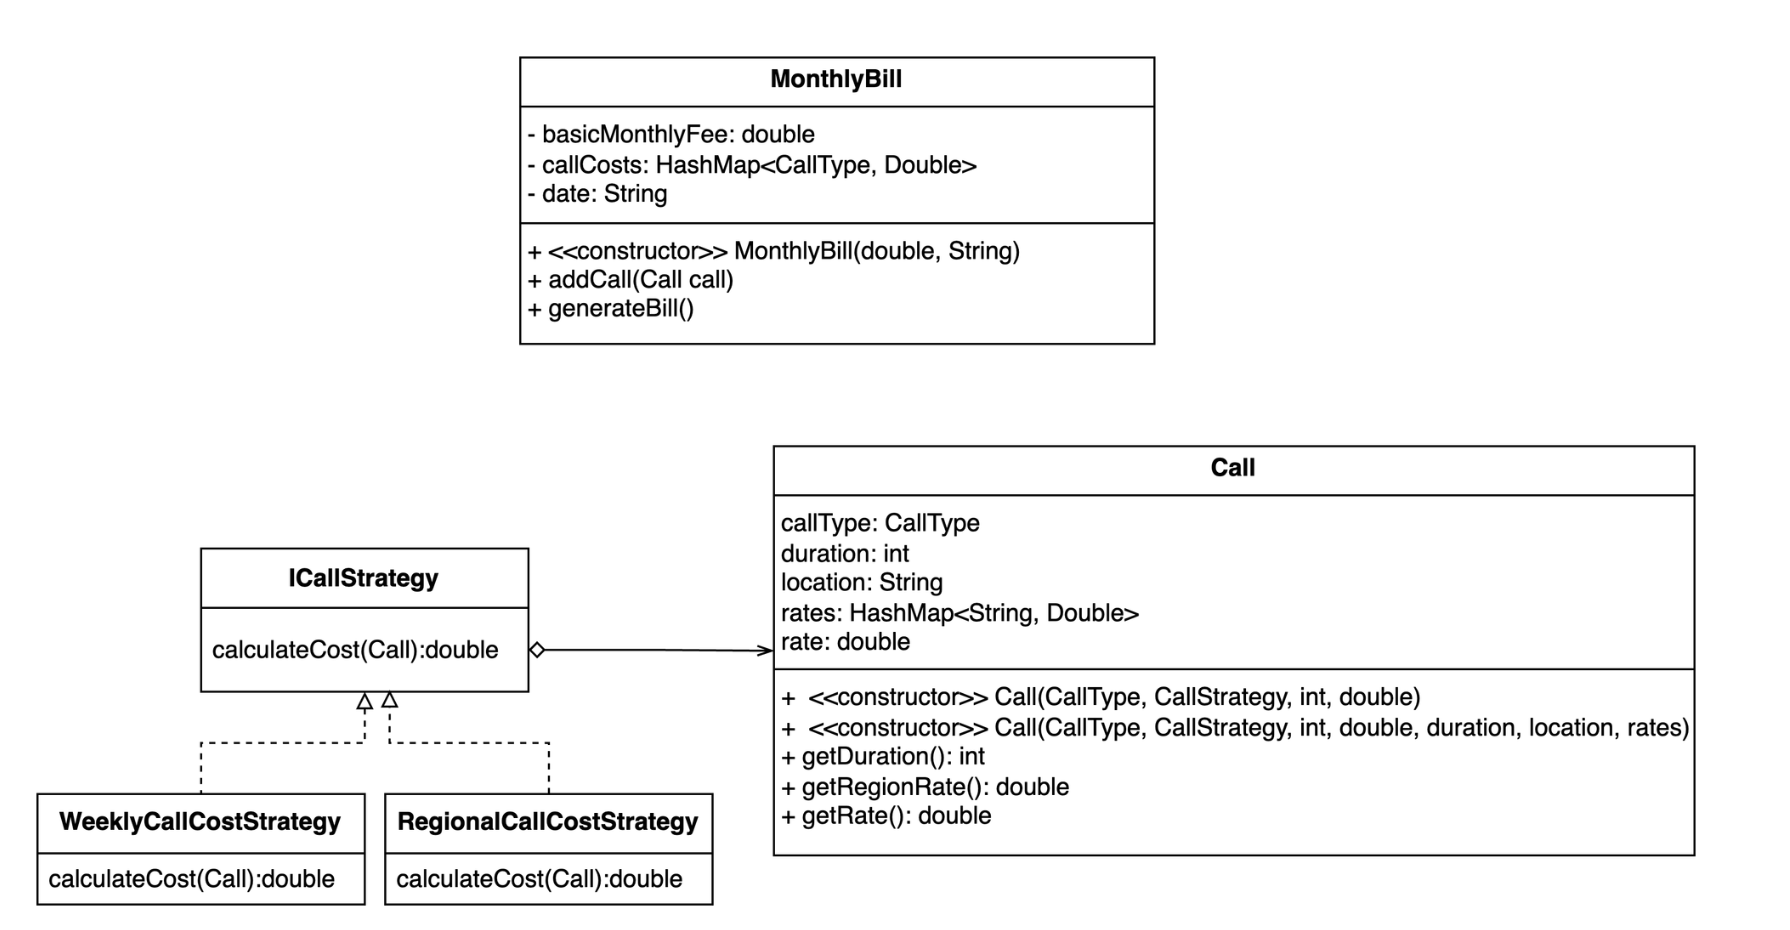
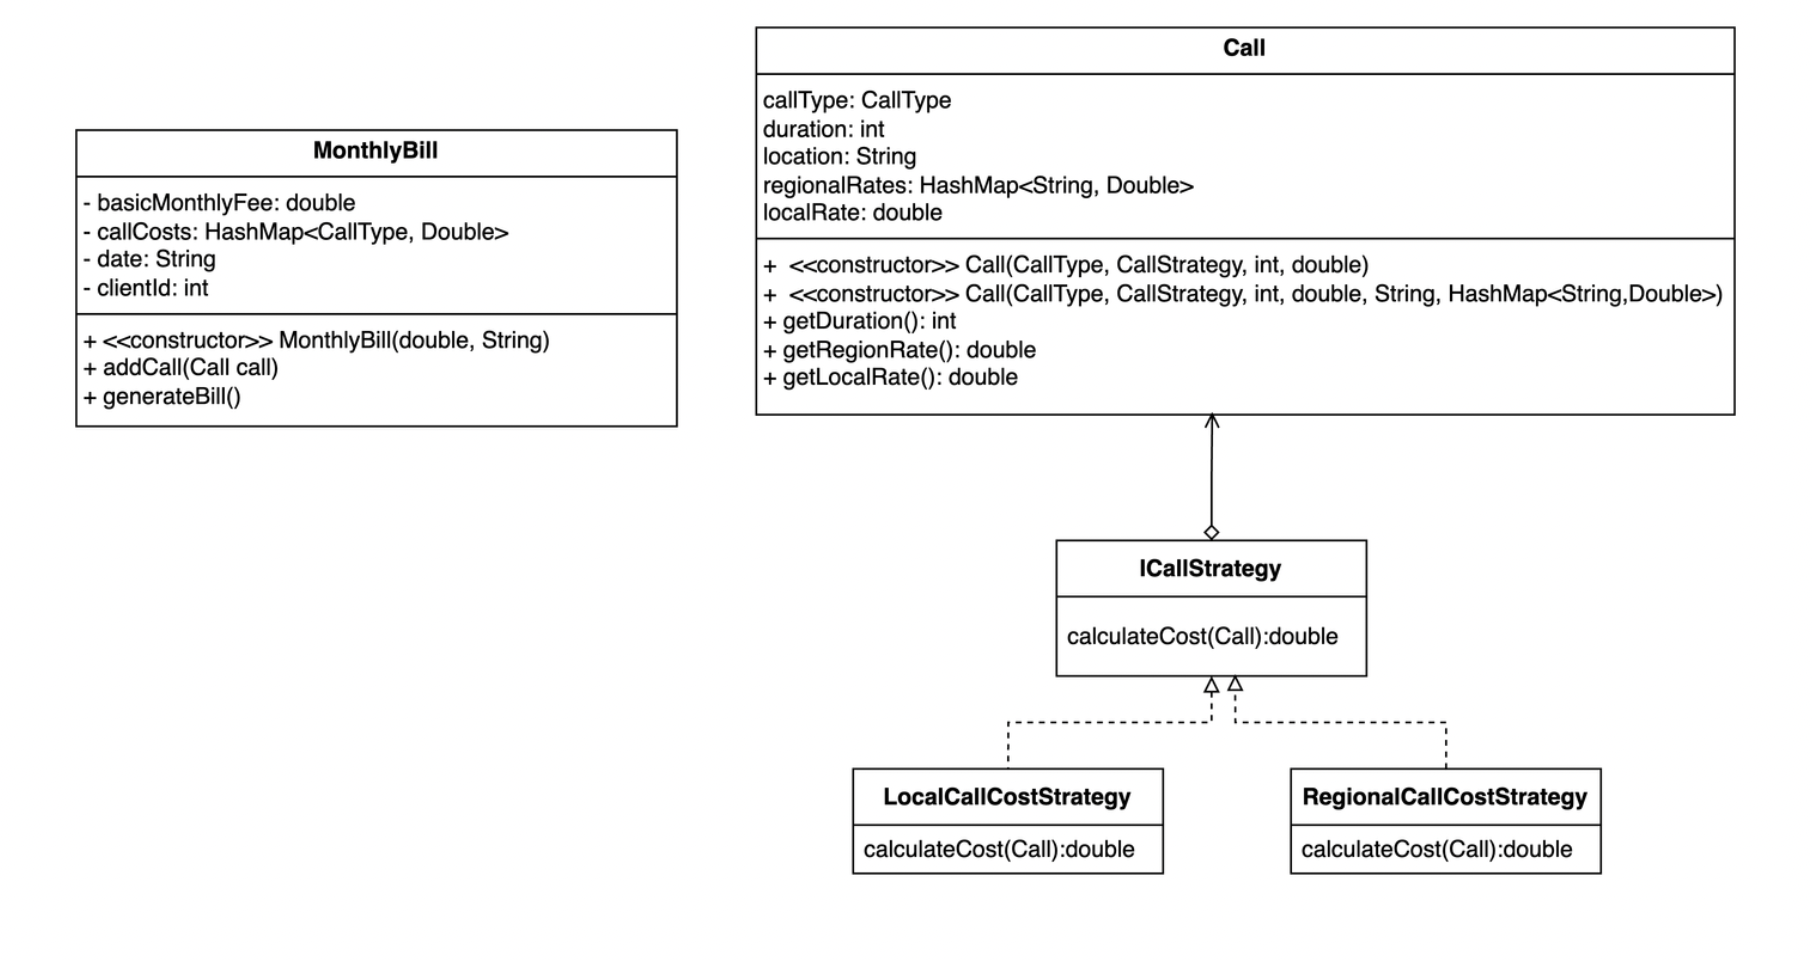
Refactor of some names for clarity. README updated.

Changed region(s): [[0.0307, 0.0, 0.9525, 0.9355], [0.0307, 0.8419, 0.3994, 0.9978], [0.0922, 0.5613, 0.3073, 0.6548]]

diff --git a/src/service/Main.java b/src/service/Main.java
@@ -4,7 +4,7 @@ import java.util.HashMap;
 import java.util.Scanner;
 
 import model.MonthlyBill;
-import model.WeeklyCallCostStrategy;
+import model.LocalCallCostStrategy;
 import model.RegionalCallCostStrategy;
 import model.Call;
 import model.CallType;
@@ -42,21 +42,21 @@ public class Main {
                     System.out.println("Enter the duration of the call (minutes):");
                     int duration = scanner.nextInt();
                     scanner.nextLine();
-                    bill.addCall(new Call(CallType.LOCAL, new WeeklyCallCostStrategy(), duration,
+                    bill.addCall(new Call(CallType.LOCAL, new LocalCallCostStrategy(), duration,
                             WEEKDAY_PEAK_LOCAL_CALL_COST));
                     break;
                 case 2:
                     System.out.println("Enter the duration of the call (minutes):");
                     int duration1 = scanner.nextInt();
                     scanner.nextLine();
-                    bill.addCall(new Call(CallType.LOCAL, new WeeklyCallCostStrategy(), duration1,
+                    bill.addCall(new Call(CallType.LOCAL, new LocalCallCostStrategy(), duration1,
                             WEEKDAY_OFF_PEAK_LOCAL_CALL_COST));
                     break;
                 case 3:
                     System.out.println("Enter the duration of the call (minutes):");
                     int duration2 = scanner.nextInt();
                     scanner.nextLine();
-                    bill.addCall(new Call(CallType.LOCAL, new WeeklyCallCostStrategy(), duration2,
+                    bill.addCall(new Call(CallType.LOCAL, new LocalCallCostStrategy(), duration2,
                             WEEKEND_LOCAL_CALL_COST));
                     break;
                 case 4:

diff --git a/src/model/Call.java b/src/model/Call.java
@@ -7,23 +7,23 @@ public class Call {
     ICallStrategy callStrategy;
     int duration;
     String location;
-    HashMap<String, Double> rates;
-    double rate;
+    HashMap<String, Double> regionalRates;
+    double localRate;
 
-    public Call(CallType callType, ICallStrategy callStrategy, int duration, double rate) {
+    public Call(CallType callType, ICallStrategy callStrategy, int duration, double localRate) {
         this.callType = callType;
         this.callStrategy = callStrategy;
         this.duration = duration;
-        this.rate = rate;
+        this.localRate = localRate;
     }
 
     public Call(CallType callType, ICallStrategy callStrategy, int duration, String location,
-            HashMap<String, Double> rates) {
+            HashMap<String, Double> regionalRates) {
         this.callType = callType;
         this.callStrategy = callStrategy;
         this.duration = duration;
         this.location = location;
-        this.rates = rates;
+        this.regionalRates = regionalRates;
     }
 
     public double getCost() {
@@ -35,11 +35,11 @@ public class Call {
     }
 
     public double getRegionRate() {
-        return rates.get(location);
+        return regionalRates.get(location);
     }
 
-    public double getRate() {
-        return rate;
+    public double getLocalRate() {
+        return localRate;
     }
 
     public CallType getCallType() {

diff --git a/src/model/MonthlyBill.java b/src/model/MonthlyBill.java
@@ -30,7 +30,7 @@ public class MonthlyBill {
         double totalCost = basicMonthlyFee + localCost + nationalCost + internationalCost;
 
         System.out.println("-----------------Monthly Bill-------------------");
-        System.out.printf("Date: %.2f\n", date);
+        System.out.printf("Date: %s\n", date);
         System.out.printf("Monthly fee: %.2f\n", basicMonthlyFee);
         System.out.printf("Local calls cost: %.2f\n", localCost);
         System.out.printf("National calls cost: %.2f\n", nationalCost);

diff --git a/src/model/LocalCallCostStrategy.java b/src/model/LocalCallCostStrategy.java
@@ -1,0 +1,10 @@
+package model;
+
+public class LocalCallCostStrategy implements ICallStrategy {
+
+    @Override
+    public double calculateCost(Call callData) {
+        return (double) (callData.getDuration() * callData.getLocalRate());
+    }
+
+}

diff --git a/README.md b/README.md
@@ -5,15 +5,17 @@ requerimientos:
 
 1. La facturación se realiza de manera mensual
 2. La facturación está compuesta por:
-a. Un abono mensual básico
-b. Consumo por llamadas Locales
-c. Consumo por llamadas Nacionales e Internacionales
+   a. Un abono mensual básico
+   b. Consumo por llamadas Locales
+   c. Consumo por llamadas Nacionales e Internacionales
 3. Las llamadas locales tienen distintos valores según la franja horaria en la que se
-realizan y el día. Para los **días hábiles**, de **8 a 20 hrs**. el costo es de **0,20 centavos** el
-minuto, mientras en **el resto** de las horas es de **0,10 centavos** el minuto. Los sábados
-y domingos cuesta 0,10 centavos el minuto
+   realizan y el día. Para los **días hábiles**, de **8 a 20 hrs**. el costo es de **0,20 centavos** el
+   minuto, mientras en **el resto** de las horas es de **0,10 centavos** el minuto. Los sábados
+   y domingos cuesta 0,10 centavos el minuto
 4. Las **llamadas Internacionales** tienen un **costo** distinto **según el país** al que se llame
 5. Las **llamadas Nacionales** tienen un **costo** distinto **según** **la localidad** a la que se
-llame.
+   llame.
+
+## Diagrama UML de la solución
 
 ![Untitled](Untitled.png)
